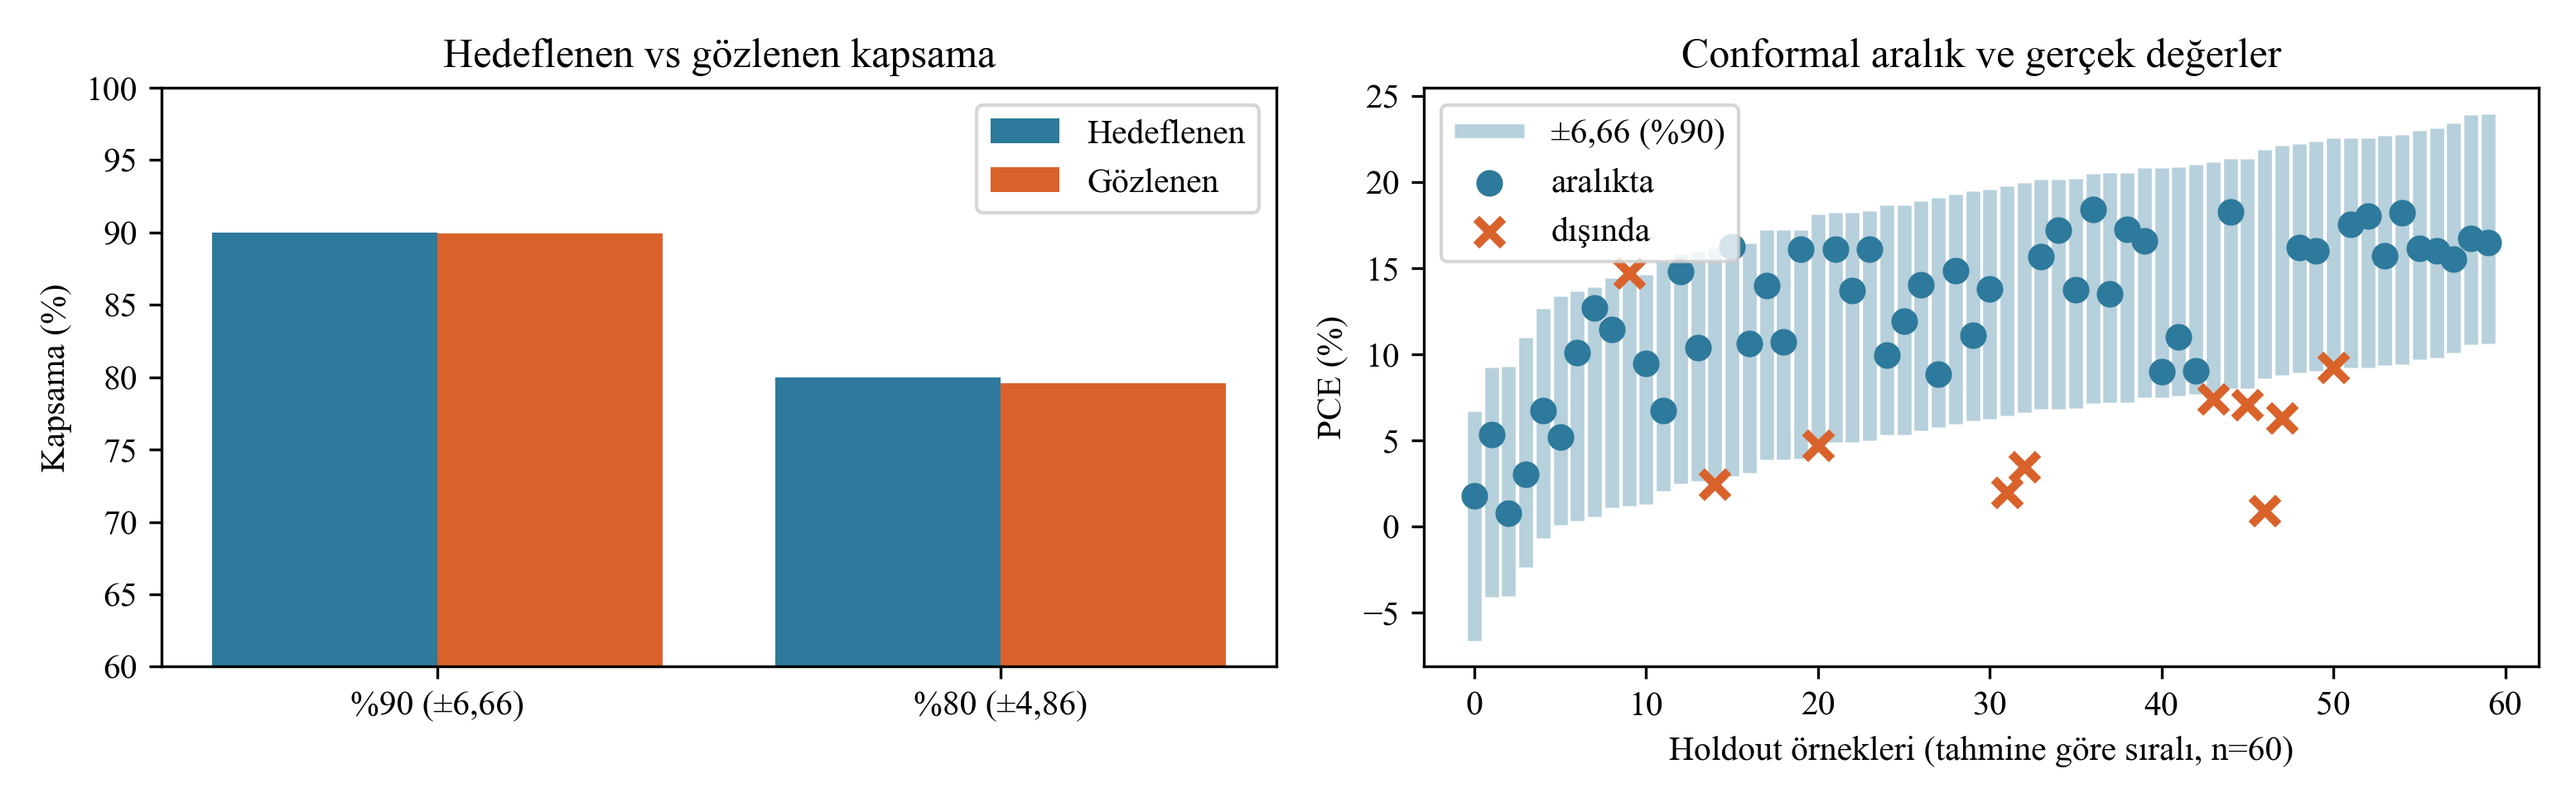
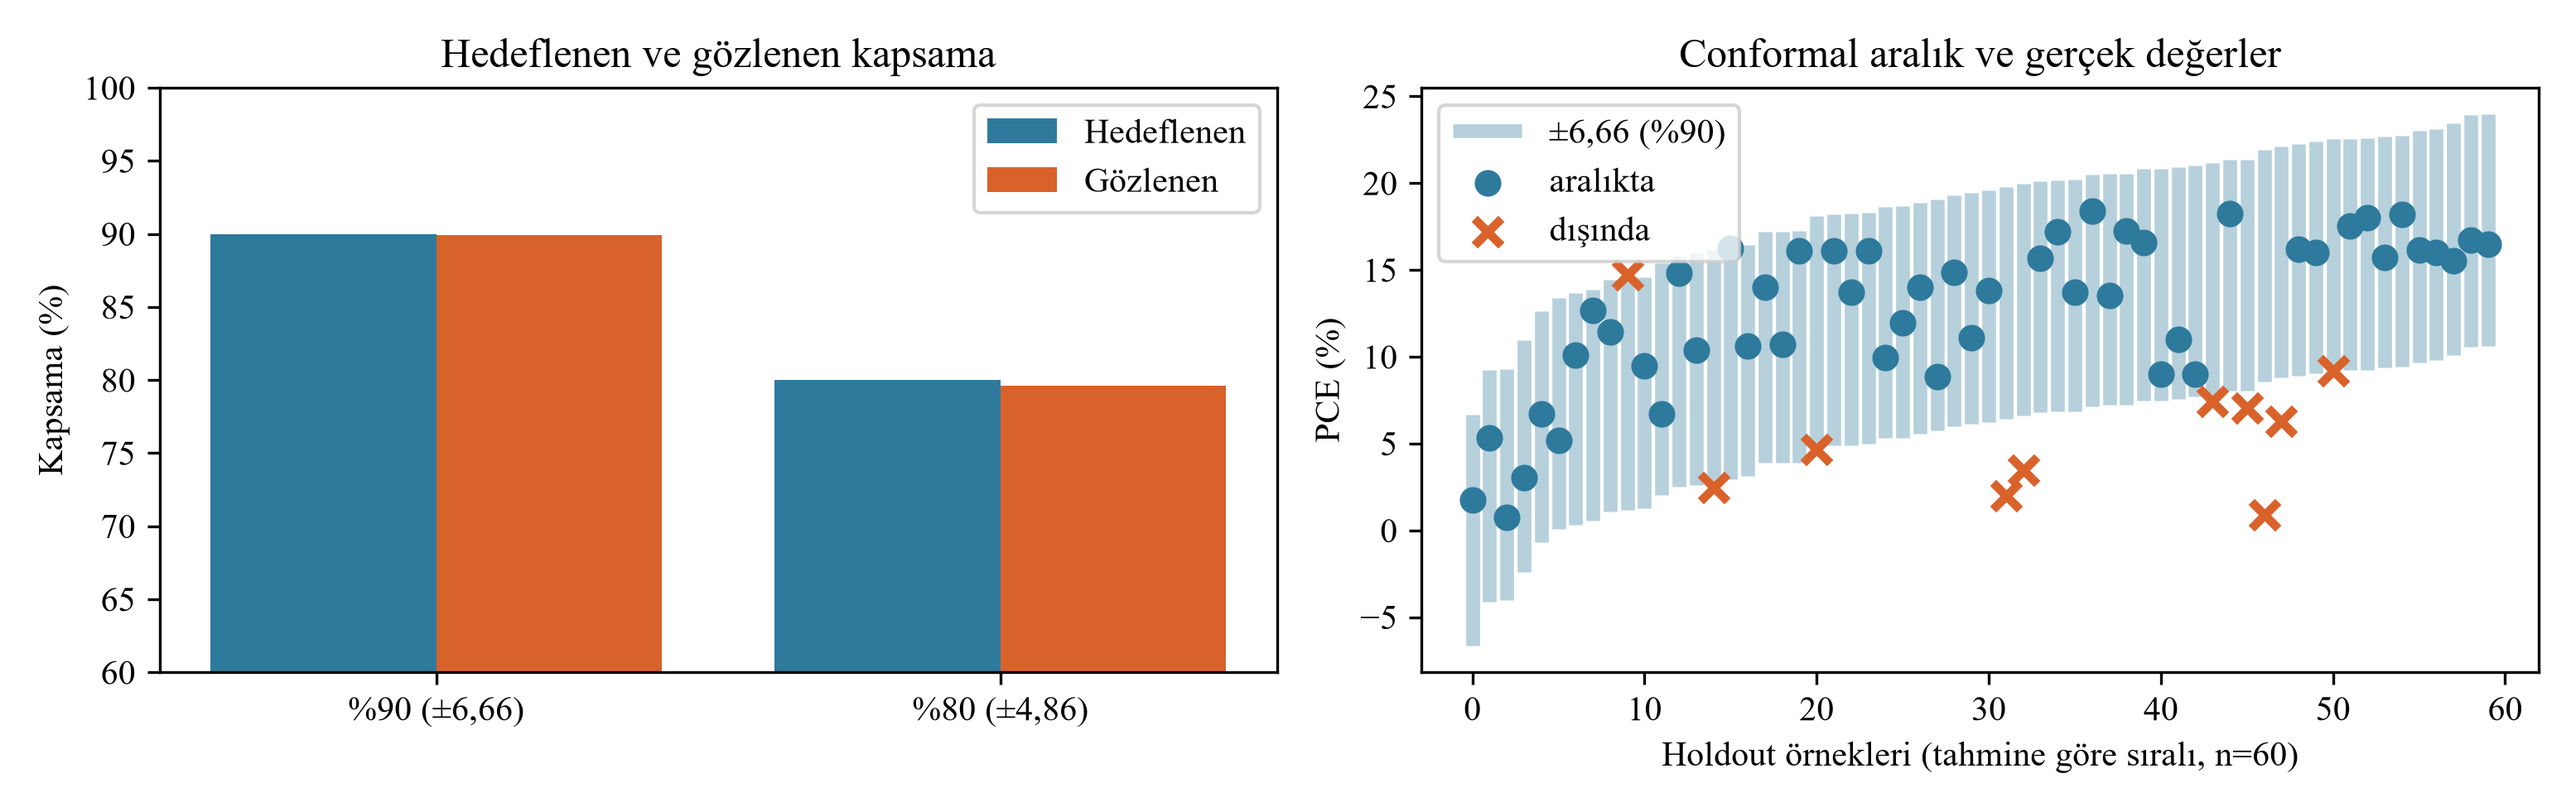
tez v120: thesis_figures.py Turkce sayi gosterimi (ondalik virgul, binlik nokta), Sekil 4.4 kategori adlari, 4.7 'Random Forest', 4.13 baslik; 7 sekil yeniden uretildi (4.5 ve 4.12 icerik olarak degismedi, commit'li halleri korundu)

diff --git a/scripts/thesis_figures.py b/scripts/thesis_figures.py
@@ -3,6 +3,9 @@
 Tezdeki 13 sekilden dordu zaten hat betiklerince uretilir (4.8/4.9 SHAP -> scripts/05,
 4.10 kazanc egrisi -> scripts/07, 4.11 sacilim -> scripts/03). Bu betik geri kalan
 VERI sekillerinin esdegerlerini uretir; Sekil 3.1 (mimari semasi) veri sekli degildir.
+Sekil 3.1 ile 4.8/4.9'un tezdeki Turkce surumleri scripts/tez_sekilleri_ek.py'dedir.
+Sayilar Turkce gosterimle yazilir (tez v120): ondalik virgul, binlik nokta (_save ->
+_tr_eksenler; metin icindeki sayilar _ondalik / _tr ile).
 
   Sekil 4.1  PCE dagilimi                      <- data/processed/model_ready_dataset.csv
   Sekil 4.2  A-site katyon oranlari            <- model_ready
@@ -25,6 +28,7 @@ from pathlib import Path
 import matplotlib
 matplotlib.use("Agg")
 import matplotlib.pyplot as plt
+from matplotlib import ticker
 
 # Sekil ici yazilar tez kilavuzu geregi Times New Roman (mathtext: STIX serif eslenigi)
 plt.rcParams["font.family"] = "Times New Roman"
@@ -44,7 +48,50 @@ def _tr(n):
     return f"{n:,}".replace(",", ".")
 
 
+def _ondalik(x, basamak):
+    """Ondalik ayirici olarak virgul (Turkce gosterim): 12.031 -> '12,03'."""
+    return f"{x:.{basamak}f}".replace(".", ",")
+
+
+def _tr_sayi_metni(s):
+    """Eksen etiketini Turkce gosterime cevirir: '0.2' -> '0,2', '25000' -> '25.000'."""
+    isaret = ""
+    if s[:1] in ("\u2212", "-"):
+        isaret, s = s[0], s[1:]
+    tam, _, kesir = s.partition(".")
+    if tam.isdigit() and len(tam) >= 4:
+        tam = _tr(int(tam))
+    return isaret + tam + ("," + kesir if kesir else "")
+
+
+class _TrFormatter(ticker.ScalarFormatter):
+    """ScalarFormatter'in sectigi basamak sayisini korur, yalnizca ayiricilari Turkcelestirir."""
+
+    def __call__(self, x, pos=None):
+        return _tr_sayi_metni(super().__call__(x, pos))
+
+
+def _tr_eksenler(fig):
+    """Dogrusal sayisal eksenlere Turkce bicim uygular; log ve elle etiketlenmis eksenlere dokunmaz."""
+    for ax in fig.axes:
+        for eksen in (ax.xaxis, ax.yaxis):
+            if type(eksen.get_major_formatter()) is ticker.ScalarFormatter:
+                eksen.set_major_formatter(_TrFormatter())
+
+
+# Sekil 4.4: veri tabani kategori adlarinin tezdeki yazimi (Tablo 4.6, Sekil 4.8 ile ayni)
+_KATEGORI_TR = {"nip": "n-i-p", "pin": "p-i-n", "Back contacted": "Arka kontakl\u0131",
+                "Front contacted": "\u00d6n kontakl\u0131", "Unknown": "Bilinmiyor", "none": "Yok"}
+
+
+def _kategori_adi(t):
+    if t in _KATEGORI_TR:
+        return _KATEGORI_TR[t]
+    return t.replace("TiO2", "TiO\u2082").replace(" | ", "|")
+
+
 def _save(fig, outdir, name, made):
+    _tr_eksenler(fig)
     fig.tight_layout()
     path = outdir / name
     fig.savefig(path, dpi=DPI)
@@ -74,9 +121,9 @@ def main():
         ax.hist(pce, bins=np.arange(0, 36, 0.5), color=MAVI,
                 edgecolor="white", linewidth=0.4)
         ax.axvline(pce.mean(), color=TURUNCU, linestyle="--", linewidth=2.2,
-                   label=f"Ortalama = {pce.mean():.2f}")
+                   label=f"Ortalama = {_ondalik(pce.mean(), 2)}")
         ax.axvline(pce.median(), color="black", linestyle=":", linewidth=2.2,
-                   label=f"Medyan = {pce.median():.2f}")
+                   label=f"Medyan = {_ondalik(pce.median(), 2)}")
         ax.set_xlabel("PCE (%)"); ax.set_ylabel("H\u00fccre say\u0131s\u0131")
         ax.legend()
         _save(fig, outdir, "sekil_4_01_pce_dagilimi.png", made)
@@ -101,7 +148,7 @@ def main():
                      edgecolor="white", linewidth=0.4)
         axes[0].set_xlabel("Band gap (eV)")
         axes[0].set_ylabel("Kay\u0131t say\u0131s\u0131")
-        axes[0].set_title(f"Band gap da\u011f\u0131l\u0131m\u0131 (doldurmas\u0131z, n={len(obs)})")
+        axes[0].set_title(f"Band gap da\u011f\u0131l\u0131m\u0131 (doldurmas\u0131z, n = {_tr(len(obs))})")
         axes[0].set_xlim(1.0, 2.5)
         bins = np.arange(1.1, 2.5 + 1e-9, 0.1)
         grp = obs.groupby(pd.cut(bg, bins), observed=False)[tgt].agg(["mean", "count"])
@@ -111,7 +158,7 @@ def main():
                      linewidth=3, markersize=9)
         axes[1].set_xlabel("Band gap (eV)")
         axes[1].set_ylabel("Ortalama PCE (%)")
-        axes[1].set_title("Band gap'e g\u00f6re ortalama PCE")
+        axes[1].set_title("Band gap\u2019e g\u00f6re ortalama PCE")
         axes[1].set_xlim(1.0, 2.5)
         _save(fig, outdir, "sekil_4_03_bandgap.png", made)
 
@@ -143,7 +190,7 @@ def main():
         fig, ax = plt.subplots(figsize=(6.37, 2.47))
         bars = ax.barh([n for _, n in satirlar], vals, color=MAVI)
         for b, v in zip(bars, vals):
-            ax.text(v + 0.5, b.get_y() + b.get_height() / 2, f"%{v:.1f}", va="center")
+            ax.text(v + 0.5, b.get_y() + b.get_height() / 2, f"%{_ondalik(v, 1)}", va="center")
         ax.set_xlabel("Doldurma (imputation) uygulanan kay\u0131t oran\u0131 (%)")
         ax.set_xlim(0, max(vals) * 1.2)
         _save(fig, outdir, "sekil_4_06_eksik_oranlar.png", made)
@@ -163,12 +210,12 @@ def main():
             vc = C[col].fillna("Unknown").astype(str).value_counts()
             top = vc.head(5)
             other = int(vc.iloc[5:].sum())
-            etiket = [t.replace("-", " ").replace(":", " ") for t in top.index]
+            etiket = [_kategori_adi(t) for t in top.index]
             deger = list(top.values)
             if len(vc) > 6 and other > 0:
-                etiket.append(f"{kisa} other"); deger.append(other)
+                etiket.append("Di\u011fer"); deger.append(other)
             elif len(vc) == 6:
-                etiket.append(vc.index[5].replace("-", " ").replace(":", " "))
+                etiket.append(_kategori_adi(vc.index[5]))
                 deger.append(int(vc.iloc[5]))
             sirali = sorted(zip(deger, etiket))
             ax.barh([e for _, e in sirali], [v for v, _ in sirali], color=MAVI)
@@ -186,11 +233,12 @@ def main():
     if cmp_path.exists():
         cmp = pd.read_csv(cmp_path).sort_values("R2_mean")
         fig, ax = plt.subplots(figsize=(7.0, 4.2))
-        ax.barh(cmp["model"], cmp["R2_mean"], xerr=cmp["R2_std"],
+        model_adi = cmp["model"].replace({"RandomForest": "Random Forest"})
+        ax.barh(model_adi, cmp["R2_mean"], xerr=cmp["R2_std"],
                 color=MAVI, capsize=4)
         for y, (r2, sd) in enumerate(zip(cmp["R2_mean"], cmp["R2_std"])):
-            ax.text(r2 + sd + 0.012, y, f"{r2:.3f}", va="center")
-        ax.set_xlabel("GroupKFold CV R\u00b2 (5-kat, ortalama \u00b1 std)")
+            ax.text(r2 + sd + 0.012, y, _ondalik(r2, 3), va="center")
+        ax.set_xlabel("GroupKFold CV R\u00b2 (5 katl\u0131; ortalama \u00b1 standart sapma)")
         ax.set_xlim(0, 0.5)
         _save(fig, outdir, "sekil_4_07_model_karsilastirma.png", made)
     else:
@@ -210,7 +258,7 @@ def main():
     else:
         skipped.append("4.12")
 
-    # Sekil 4.13 — hedeflenen vs gozlenen kapsama (sol) + 60 orneklik aralik (sag)
+    # Sekil 4.13 — hedeflenen ve gozlenen kapsama (sol) + 60 orneklik aralik (sag)
     conf_path = outputs / "conformal" / "conformal_summary.csv"
     hold_path = outputs / "v4" / "best_model_holdout_predictions.csv"
     if conf_path.exists() and hold_path.exists():
@@ -227,7 +275,7 @@ def main():
                     label="G\u00f6zlenen", color=TURUNCU)
         axes[0].set_xticks(xs); axes[0].set_xticklabels(etik)
         axes[0].set_ylabel("Kapsama (%)"); axes[0].set_ylim(60, 100)
-        axes[0].set_title("Hedeflenen vs g\u00f6zlenen kapsama")
+        axes[0].set_title("Hedeflenen ve g\u00f6zlenen kapsama")
         axes[0].legend()
         hw90 = hw.get(90, list(hw.values())[0])
         H = pd.read_csv(hold_path)
